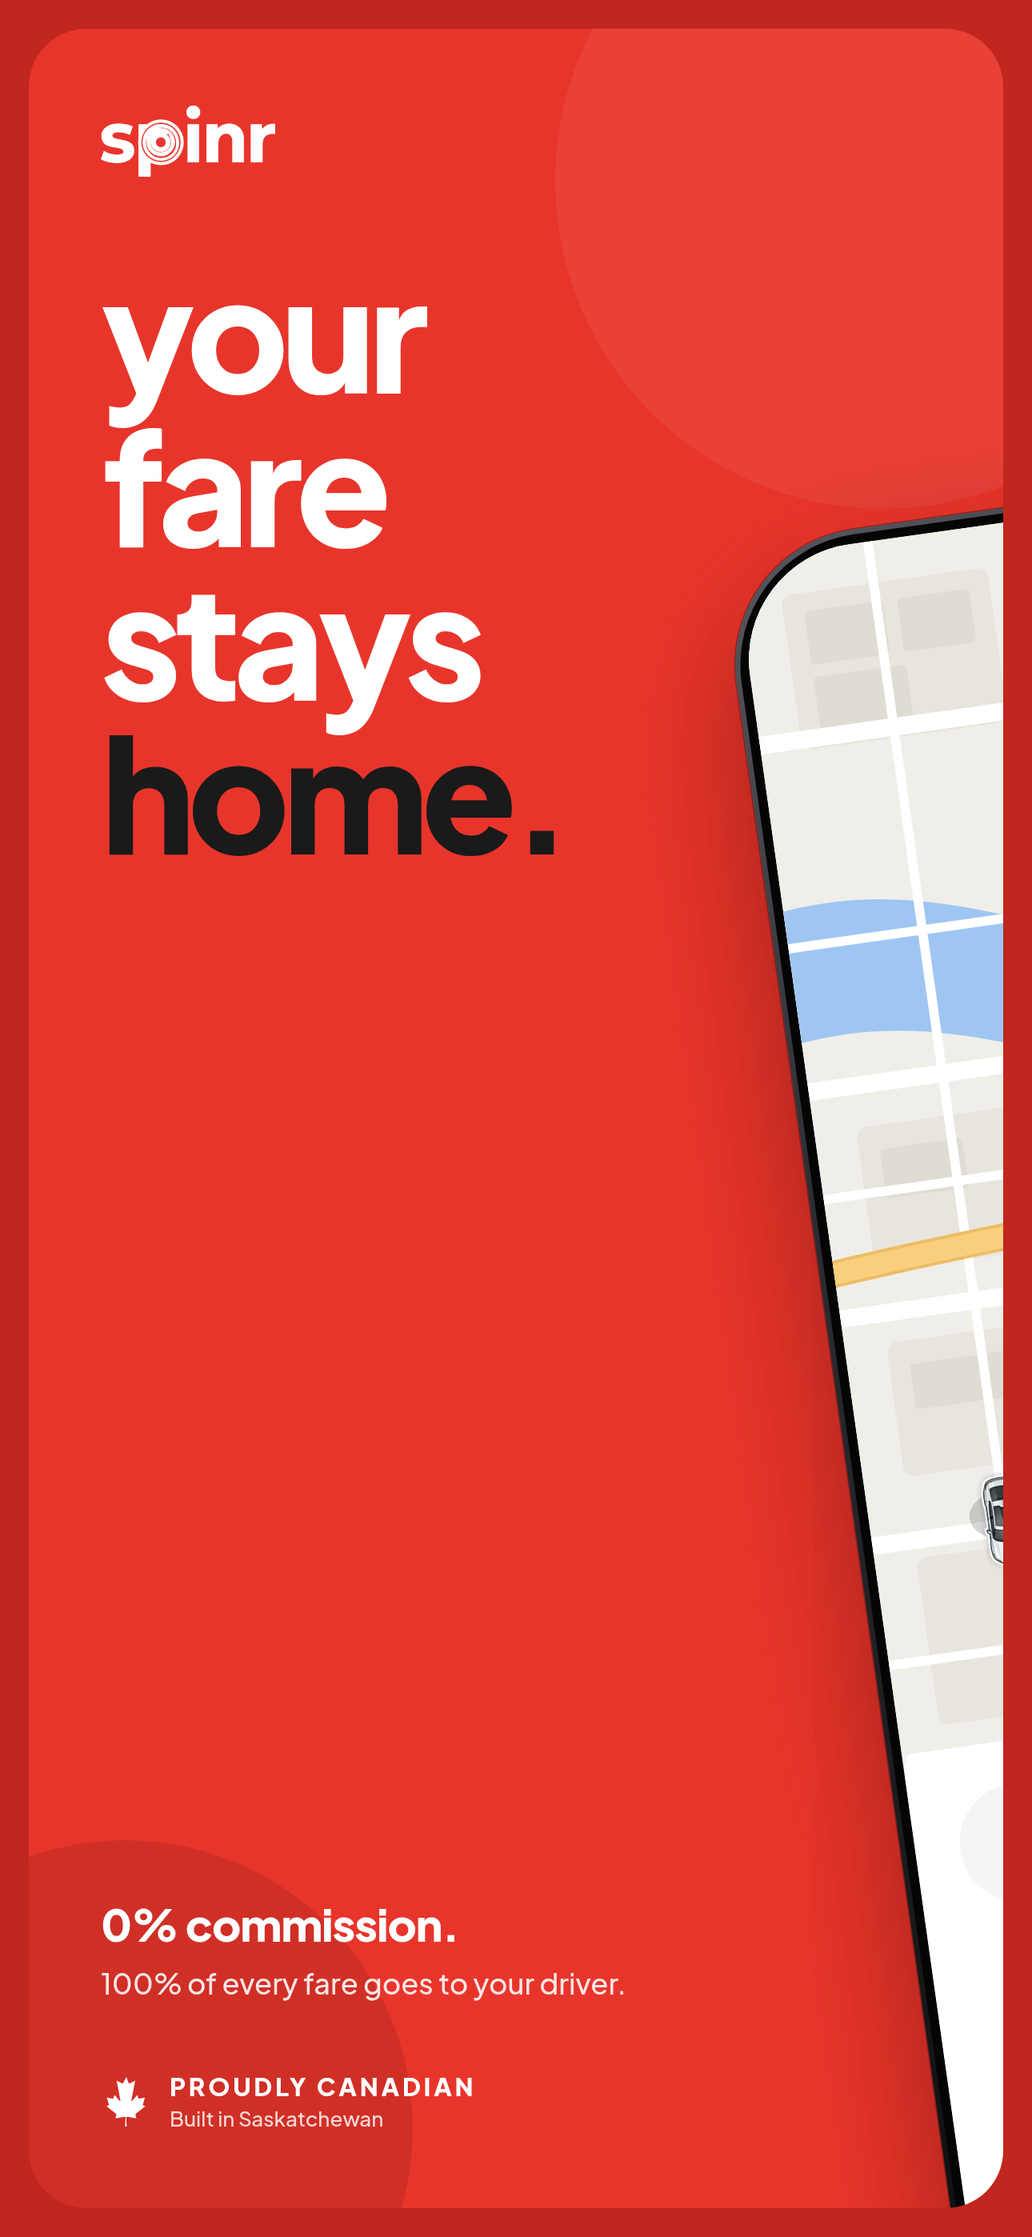
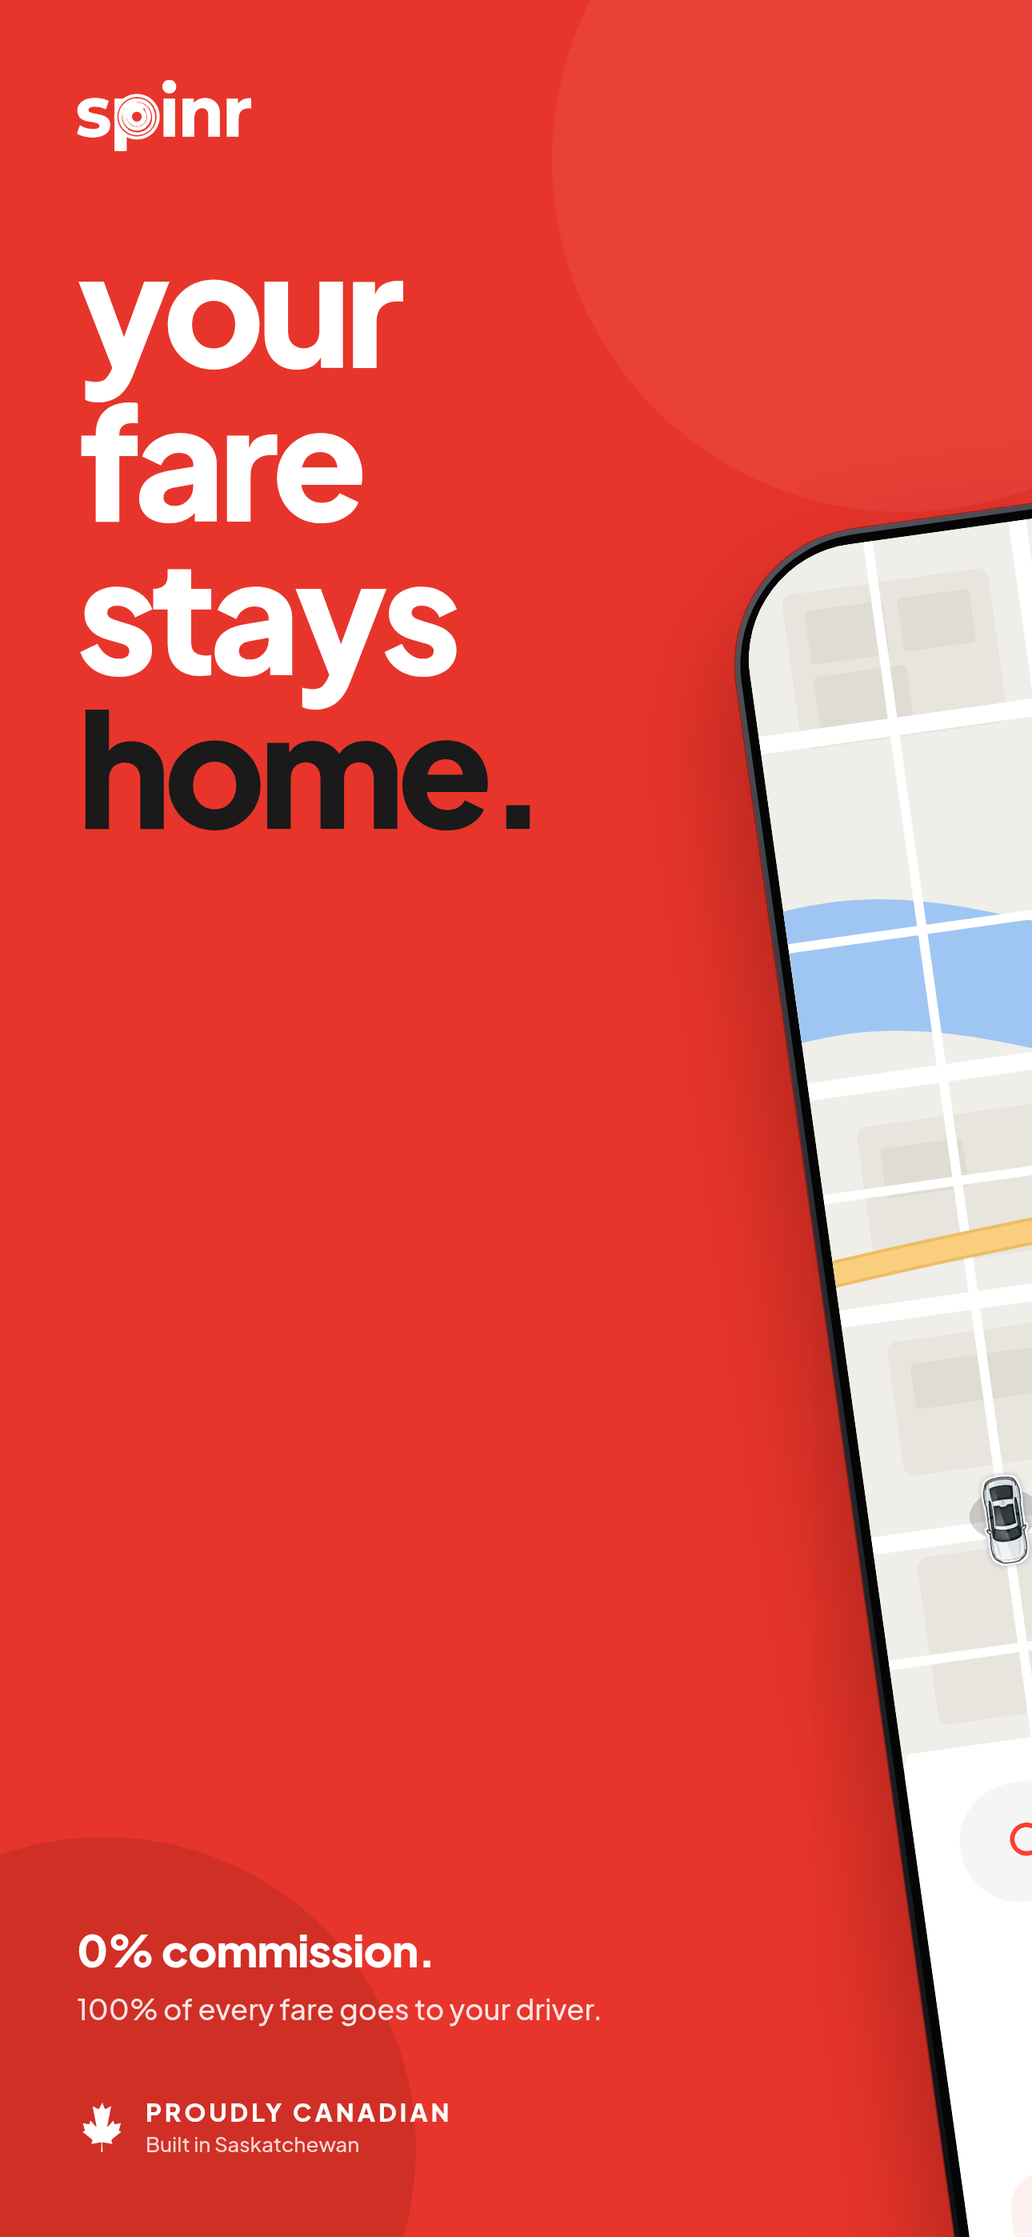
feat(design): v7 — full-bleed opener pair, WELCOME75 with exact math
- Frames 1-2 lose the panel-in-panel treatment: now full-bleed 1290x2796
  like every other frame in the set (no outer border, no inner rounded
  panel), phone positions shifted to keep the identical composition and
  the cross-frame continuity.
- Frame 3 promo is now WELCOME75 (75% off), computed exactly:
  $22.99 -> $5.75, $29.75 -> $7.44 (7.4375 rounded), $31.40 -> $7.85,
  confirm button matches at $5.75. All rows land under $10.

Co-developed with Claude Code (claude-sonnet-5)

Claude-Session: https://claude.ai/code/session_01RAfSoFR6nXebZH6nfqRpkU

Changed region(s): [[0.0, 0.0, 1.0, 1.0], [0.062, 0.1245, 0.5271, 0.4045], [0.062, 0.8401, 0.5891, 0.9024]]

diff --git a/design/app-store-screenshots/Rider02.dc.html b/design/app-store-screenshots/Rider02.dc.html
@@ -68,7 +68,7 @@
             <span style="font-size: 26px; font-weight: 500; color: #6B7280;">3 min &middot; 5 drivers</span>
           </div>
           <div style="display: flex; flex-direction: column; align-items: flex-end;">
-            <div style="display: flex; flex-direction: column; align-items: flex-end; gap: 2px;"><span style="font-size: 26px; font-weight: 500; color: #6B7280; text-decoration: line-through;">$22.99</span><span style="font-size: 37px; font-weight: 800; color: #10B981;">$7.99</span></div>
+            <div style="display: flex; flex-direction: column; align-items: flex-end; gap: 2px;"><span style="font-size: 26px; font-weight: 500; color: #6B7280; text-decoration: line-through;">$22.99</span><span style="font-size: 37px; font-weight: 800; color: #10B981;">$5.75</span></div>
             <svg width="43" height="43" viewBox="0 0 24 24" fill="#1A1A1A" style="margin-top: 6px;"><path d="M12 2a10 10 0 1 0 0 20 10 10 0 0 0 0-20zm-1.2 14.5L6.6 12.3l1.7-1.7 2.5 2.5 5-5 1.7 1.7z"></path></svg>
           </div>
         </div>
@@ -85,7 +85,7 @@
             <span style="font-size: 26px; font-weight: 500; color: #6B7280;">6 min &middot; 2 drivers</span>
           </div>
           <div style="display: flex; flex-direction: column; align-items: flex-end;">
-            <div style="display: flex; flex-direction: column; align-items: flex-end; gap: 2px;"><span style="font-size: 26px; font-weight: 500; color: #6B7280; text-decoration: line-through;">$29.75</span><span style="font-size: 37px; font-weight: 800; color: #10B981;">$14.75</span></div>
+            <div style="display: flex; flex-direction: column; align-items: flex-end; gap: 2px;"><span style="font-size: 26px; font-weight: 500; color: #6B7280; text-decoration: line-through;">$29.75</span><span style="font-size: 37px; font-weight: 800; color: #10B981;">$7.44</span></div>
             
           </div>
         </div>
@@ -102,22 +102,22 @@
             <span style="font-size: 26px; font-weight: 500; color: #6B7280;">8 min &middot; 2 drivers</span>
           </div>
           <div style="display: flex; flex-direction: column; align-items: flex-end;">
-            <div style="display: flex; flex-direction: column; align-items: flex-end; gap: 2px;"><span style="font-size: 26px; font-weight: 500; color: #6B7280; text-decoration: line-through;">$31.40</span><span style="font-size: 37px; font-weight: 800; color: #10B981;">$16.40</span></div>
+            <div style="display: flex; flex-direction: column; align-items: flex-end; gap: 2px;"><span style="font-size: 26px; font-weight: 500; color: #6B7280; text-decoration: line-through;">$31.40</span><span style="font-size: 37px; font-weight: 800; color: #10B981;">$7.85</span></div>
             
           </div>
         </div>
         <div style="display: flex; align-items: center; gap: 24px; padding: 24px 30px; border-radius: 30px; background: #ECFDF5; border: 2px solid #A7F3D0;">
           <svg width="44" height="44" viewBox="0 0 24 24" fill="none" stroke="#059669" stroke-width="2.2" stroke-linecap="round" stroke-linejoin="round"><path d="M20.5 13.5L13 21a2 2 0 0 1-2.8 0l-7-7A2 2 0 0 1 2.6 12.6V5a2 2 0 0 1 2-2h7.6a2 2 0 0 1 1.4.6l6.9 6.9a2 2 0 0 1 0 2.8z"></path><circle cx="8" cy="8" r="1.6"></circle></svg>
           <div style="flex-grow: 1; display: flex; flex-direction: column; gap: 3px;">
-            <span style="font-size: 30px; font-weight: 700; color: #059669;">WELCOME15 applied</span>
-            <span style="font-size: 25px; font-weight: 500; color: #3F7A5B;">$15.00 off your first ride</span>
+            <span style="font-size: 30px; font-weight: 700; color: #059669;">WELCOME75 applied</span>
+            <span style="font-size: 25px; font-weight: 500; color: #3F7A5B;">75% off your first ride</span>
           </div>
           <span style="font-size: 27px; font-weight: 600; color: #DC2626;">Remove</span>
         </div>
       </div>
       <div style="flex-shrink: 0; padding: 26px 43px 46px; background: #F5F5F5;">
         <div style="height: 119px; border-radius: 60px; background: #FF3B30; display: flex; align-items: center; justify-content: center; box-shadow: 0 10px 26px rgba(255,59,48,0.32);">
-          <span style="font-size: 34px; font-weight: 600; color: #FFFFFF;">Confirm Economy &middot; $7.99</span>
+          <span style="font-size: 34px; font-weight: 600; color: #FFFFFF;">Confirm Economy &middot; $5.75</span>
         </div>
       </div>
 

diff --git a/design/app-store-screenshots/_screens/options.html b/design/app-store-screenshots/_screens/options.html
@@ -29,7 +29,7 @@
             <span style="font-size: 26px; font-weight: 500; color: #6B7280;">3 min &middot; 5 drivers</span>
           </div>
           <div style="display: flex; flex-direction: column; align-items: flex-end;">
-            <div style="display: flex; flex-direction: column; align-items: flex-end; gap: 2px;"><span style="font-size: 26px; font-weight: 500; color: #6B7280; text-decoration: line-through;">$22.99</span><span style="font-size: 37px; font-weight: 800; color: #10B981;">$7.99</span></div>
+            <div style="display: flex; flex-direction: column; align-items: flex-end; gap: 2px;"><span style="font-size: 26px; font-weight: 500; color: #6B7280; text-decoration: line-through;">$22.99</span><span style="font-size: 37px; font-weight: 800; color: #10B981;">$5.75</span></div>
             <svg width="43" height="43" viewBox="0 0 24 24" fill="#1A1A1A" style="margin-top: 6px;"><path d="M12 2a10 10 0 1 0 0 20 10 10 0 0 0 0-20zm-1.2 14.5L6.6 12.3l1.7-1.7 2.5 2.5 5-5 1.7 1.7z"></path></svg>
           </div>
         </div>
@@ -46,7 +46,7 @@
             <span style="font-size: 26px; font-weight: 500; color: #6B7280;">6 min &middot; 2 drivers</span>
           </div>
           <div style="display: flex; flex-direction: column; align-items: flex-end;">
-            <div style="display: flex; flex-direction: column; align-items: flex-end; gap: 2px;"><span style="font-size: 26px; font-weight: 500; color: #6B7280; text-decoration: line-through;">$29.75</span><span style="font-size: 37px; font-weight: 800; color: #10B981;">$14.75</span></div>
+            <div style="display: flex; flex-direction: column; align-items: flex-end; gap: 2px;"><span style="font-size: 26px; font-weight: 500; color: #6B7280; text-decoration: line-through;">$29.75</span><span style="font-size: 37px; font-weight: 800; color: #10B981;">$7.44</span></div>
             
           </div>
         </div>
@@ -63,21 +63,21 @@
             <span style="font-size: 26px; font-weight: 500; color: #6B7280;">8 min &middot; 2 drivers</span>
           </div>
           <div style="display: flex; flex-direction: column; align-items: flex-end;">
-            <div style="display: flex; flex-direction: column; align-items: flex-end; gap: 2px;"><span style="font-size: 26px; font-weight: 500; color: #6B7280; text-decoration: line-through;">$31.40</span><span style="font-size: 37px; font-weight: 800; color: #10B981;">$16.40</span></div>
+            <div style="display: flex; flex-direction: column; align-items: flex-end; gap: 2px;"><span style="font-size: 26px; font-weight: 500; color: #6B7280; text-decoration: line-through;">$31.40</span><span style="font-size: 37px; font-weight: 800; color: #10B981;">$7.85</span></div>
             
           </div>
         </div>
         <div style="display: flex; align-items: center; gap: 24px; padding: 24px 30px; border-radius: 30px; background: #ECFDF5; border: 2px solid #A7F3D0;">
           <svg width="44" height="44" viewBox="0 0 24 24" fill="none" stroke="#059669" stroke-width="2.2" stroke-linecap="round" stroke-linejoin="round"><path d="M20.5 13.5L13 21a2 2 0 0 1-2.8 0l-7-7A2 2 0 0 1 2.6 12.6V5a2 2 0 0 1 2-2h7.6a2 2 0 0 1 1.4.6l6.9 6.9a2 2 0 0 1 0 2.8z"></path><circle cx="8" cy="8" r="1.6"></circle></svg>
           <div style="flex-grow: 1; display: flex; flex-direction: column; gap: 3px;">
-            <span style="font-size: 30px; font-weight: 700; color: #059669;">WELCOME15 applied</span>
-            <span style="font-size: 25px; font-weight: 500; color: #3F7A5B;">$15.00 off your first ride</span>
+            <span style="font-size: 30px; font-weight: 700; color: #059669;">WELCOME75 applied</span>
+            <span style="font-size: 25px; font-weight: 500; color: #3F7A5B;">75% off your first ride</span>
           </div>
           <span style="font-size: 27px; font-weight: 600; color: #DC2626;">Remove</span>
         </div>
       </div>
       <div style="flex-shrink: 0; padding: 26px 43px 46px; background: #F5F5F5;">
         <div style="height: 119px; border-radius: 60px; background: #FF3B30; display: flex; align-items: center; justify-content: center; box-shadow: 0 10px 26px rgba(255,59,48,0.32);">
-          <span style="font-size: 34px; font-weight: 600; color: #FFFFFF;">Confirm Economy &middot; $7.99</span>
+          <span style="font-size: 34px; font-weight: 600; color: #FFFFFF;">Confirm Economy &middot; $5.75</span>
         </div>
       </div>

diff --git a/design/app-store-screenshots/Main.dc.html b/design/app-store-screenshots/Main.dc.html
@@ -15,11 +15,10 @@
   </style>
 </helmet>
 
-<div class="sp" style="width: 1290px; height: 2796px; position: relative; overflow: hidden; background: #C0271E; padding: 36px;">
-  <div style="position: relative; width: 1218px; height: 2724px; border-radius: 72px; overflow: hidden; background: #E8352B;">
-    <div style="position: absolute; top: -220px; right: -260px; width: 820px; height: 820px; border-radius: 410px; background: rgba(255,255,255,0.06); z-index: 0;"></div>
-    <div style="position: absolute; bottom: -260px; left: -240px; width: 720px; height: 720px; border-radius: 360px; background: rgba(0,0,0,0.10); z-index: 0;"></div>
-  <div style="position: absolute; left: 1020px; top: 560px; width: 1115px; height: 2366px; transform: rotate(-8deg); z-index: 3;">
+<div class="sp" style="width: 1290px; height: 2796px; position: relative; overflow: hidden; background: #E8352B;">
+  <div style="position: absolute; top: -240px; right: -280px; width: 880px; height: 880px; border-radius: 440px; background: rgba(255,255,255,0.06); z-index: 0;"></div>
+  <div style="position: absolute; bottom: -280px; left: -260px; width: 780px; height: 780px; border-radius: 390px; background: rgba(0,0,0,0.10); z-index: 0;"></div>
+  <div style="position: absolute; left: 1056px; top: 596px; width: 1115px; height: 2366px; transform: rotate(-8deg); z-index: 3;">
     <div style="width: 858px; height: 1820px; transform: scale(1.3); transform-origin: top left;">
       <div style="width: 858px; height: 1820px; border-radius: 132px; padding: 5px; background: linear-gradient(150deg, #55585F 0%, #2B2D33 28%, #101114 70%, #33353B 100%); box-shadow: 0 60px 120px rgba(60,8,4,0.45), 0 0 0 1px rgba(0,0,0,0.35);">
         <div style="width: 848px; height: 1810px; border-radius: 127px; background: #050505; padding: 9px;">
@@ -113,7 +112,7 @@
       </div>
     </div>
   </div>
-  <div style="position: absolute; inset: 0; z-index: 4; padding: 96px 90px; display: flex; flex-direction: column; pointer-events: none;">
+  <div style="position: absolute; inset: 0; z-index: 4; padding: 100px 96px; display: flex; flex-direction: column; pointer-events: none;">
     <img src="spinr-logo-white.png" alt="Spinr" style="width: 218px; height: 89px; object-fit: contain; align-self: flex-start;">
 
     <h1 style="margin: 96px 0 0; font-size: 196px; line-height: 0.98; font-weight: 800; letter-spacing: -0.045em; color: #FFFFFF;">your<br>fare<br>stays<br><span style="color: #1A1A1A;">home.</span></h1>
@@ -130,7 +129,6 @@
         <span style="font-size: 26px; font-weight: 500; color: rgba(255,255,255,0.82);">Built in Saskatchewan</span>
       </div>
     </div>
-  </div>
   </div>
 </div>
 </x-dc>

diff --git a/design/app-store-screenshots/Brand02.dc.html b/design/app-store-screenshots/Brand02.dc.html
@@ -15,11 +15,10 @@
   </style>
 </helmet>
 
-<div class="sp" style="width: 1290px; height: 2796px; position: relative; overflow: hidden; background: #C0271E; padding: 36px;">
-  <div style="position: relative; width: 1218px; height: 2724px; border-radius: 72px; overflow: hidden; background: #E8352B;">
-    <div style="position: absolute; top: -220px; right: -260px; width: 820px; height: 820px; border-radius: 410px; background: rgba(255,255,255,0.06); z-index: 0;"></div>
-    <div style="position: absolute; bottom: -260px; left: -240px; width: 720px; height: 720px; border-radius: 360px; background: rgba(0,0,0,0.10); z-index: 0;"></div>
-  <div style="position: absolute; left: -300px; top: 560px; width: 1115px; height: 2366px; transform: rotate(-8deg); z-index: 3;">
+<div class="sp" style="width: 1290px; height: 2796px; position: relative; overflow: hidden; background: #E8352B;">
+  <div style="position: absolute; top: -240px; right: -280px; width: 880px; height: 880px; border-radius: 440px; background: rgba(255,255,255,0.06); z-index: 0;"></div>
+  <div style="position: absolute; bottom: -280px; left: -260px; width: 780px; height: 780px; border-radius: 390px; background: rgba(0,0,0,0.10); z-index: 0;"></div>
+  <div style="position: absolute; left: -264px; top: 596px; width: 1115px; height: 2366px; transform: rotate(-8deg); z-index: 3;">
     <div style="width: 858px; height: 1820px; transform: scale(1.3); transform-origin: top left;">
       <div style="width: 858px; height: 1820px; border-radius: 132px; padding: 5px; background: linear-gradient(150deg, #55585F 0%, #2B2D33 28%, #101114 70%, #33353B 100%); box-shadow: 0 60px 120px rgba(60,8,4,0.45), 0 0 0 1px rgba(0,0,0,0.35);">
         <div style="width: 848px; height: 1810px; border-radius: 127px; background: #050505; padding: 9px;">
@@ -115,7 +114,6 @@
   </div>
   <div style="position: absolute; right: 90px; top: 96px; z-index: 4;">
     <img src="spinr-logo-white.png" alt="Spinr" style="width: 252px; height: 103px; object-fit: contain;">
-  </div>
   </div>
 </div>
 </x-dc>

diff --git a/design/app-store-screenshots/_build.py b/design/app-store-screenshots/_build.py
@@ -182,12 +182,10 @@ PAIR_SHELL = '''<!doctype html>
   </style>
 </helmet>
 
-<div class="sp" style="width: 1290px; height: 2796px; position: relative; overflow: hidden; background: {outer}; padding: 36px;">
-  <div style="position: relative; width: 1218px; height: 2724px; border-radius: 72px; overflow: hidden; background: {panel};">
-    <div style="position: absolute; top: -220px; right: -260px; width: 820px; height: 820px; border-radius: 410px; background: rgba(255,255,255,0.06); z-index: 0;"></div>
-    <div style="position: absolute; bottom: -260px; left: -240px; width: 720px; height: 720px; border-radius: 360px; background: rgba(0,0,0,0.10); z-index: 0;"></div>
+<div class="sp" style="width: 1290px; height: 2796px; position: relative; overflow: hidden; background: {panel};">
+  <div style="position: absolute; top: -240px; right: -280px; width: 880px; height: 880px; border-radius: 440px; background: rgba(255,255,255,0.06); z-index: 0;"></div>
+  <div style="position: absolute; bottom: -280px; left: -260px; width: 780px; height: 780px; border-radius: 390px; background: rgba(0,0,0,0.10); z-index: 0;"></div>
 {content}
-  </div>
 </div>
 </x-dc>
 </body>
@@ -196,8 +194,8 @@ PAIR_SHELL = '''<!doctype html>
 
 home_screen = open('_screens/home.html').read()
 
-frame1_content = iphone(home_screen, 1020, 560) + '''
-  <div style="position: absolute; inset: 0; z-index: 4; padding: 96px 90px; display: flex; flex-direction: column; pointer-events: none;">
+frame1_content = iphone(home_screen, 1056, 596) + '''
+  <div style="position: absolute; inset: 0; z-index: 4; padding: 100px 96px; display: flex; flex-direction: column; pointer-events: none;">
     <img src="spinr-logo-white.png" alt="Spinr" style="width: 218px; height: 89px; object-fit: contain; align-self: flex-start;">
 
     <h1 style="margin: 96px 0 0; font-size: 196px; line-height: 0.98; font-weight: 800; letter-spacing: -0.045em; color: #FFFFFF;">your<br>fare<br>stays<br><span style="color: #1A1A1A;">home.</span></h1>
@@ -216,13 +214,13 @@ frame1_content = iphone(home_screen, 1020, 560) + '''
     </div>
   </div>'''
 
-frame2_content = iphone(home_screen, -300, 560) + '''
+frame2_content = iphone(home_screen, -264, 596) + '''
   <div style="position: absolute; right: 90px; top: 96px; z-index: 4;">
     <img src="spinr-logo-white.png" alt="Spinr" style="width: 252px; height: 103px; object-fit: contain;">
   </div>'''
 
 for out, content in (('Main.dc.html', frame1_content), ('Brand02.dc.html', frame2_content)):
-    html = PAIR_SHELL.format(outer=OUTER, panel=PANEL, content=content).replace('{LEAF}', LEAF_D)
+    html = PAIR_SHELL.format(panel=PANEL, content=content).replace('{LEAF}', LEAF_D)
     open(out, 'w').write(html)
     d, dc = html.count('<div'), html.count('</div>')
     print(f"{out:16} div {d}/{dc} {'OK' if d == dc else 'MISMATCH'}")

diff --git a/design/app-store-screenshots/_screens.py b/design/app-store-screenshots/_screens.py
@@ -138,9 +138,9 @@ f'''        <div style="display: flex; align-items: center; gap: 22px; padding: 
         </div>''')
 
     rows = '\n'.join([
-        row('sedan', 'Economy', 4, '3 min &middot; 5 drivers', '22.99', '7.99', selected=True),
-        row('van', 'Van', 6, '6 min &middot; 2 drivers', '29.75', '14.75'),
-        row('xl', 'XL', 6, '8 min &middot; 2 drivers', '31.40', '16.40'),
+        row('sedan', 'Economy', 4, '3 min &middot; 5 drivers', '22.99', '5.75', selected=True),
+        row('van', 'Van', 6, '6 min &middot; 2 drivers', '29.75', '7.44'),
+        row('xl', 'XL', 6, '8 min &middot; 2 drivers', '31.40', '7.85'),
     ])
     return (
 f'''      <div style="flex-shrink: 0; display: flex; align-items: center; gap: 26px; padding: 150px 43px 26px; background: #FFFFFF;">
@@ -165,15 +165,15 @@ f'''      <div style="flex-shrink: 0; display: flex; align-items: center; gap: 2
         <div style="display: flex; align-items: center; gap: 24px; padding: 24px 30px; border-radius: 30px; background: #ECFDF5; border: 2px solid #A7F3D0;">
           <svg width="44" height="44" viewBox="0 0 24 24" fill="none" stroke="#059669" stroke-width="2.2" stroke-linecap="round" stroke-linejoin="round"><path d="M20.5 13.5L13 21a2 2 0 0 1-2.8 0l-7-7A2 2 0 0 1 2.6 12.6V5a2 2 0 0 1 2-2h7.6a2 2 0 0 1 1.4.6l6.9 6.9a2 2 0 0 1 0 2.8z"></path><circle cx="8" cy="8" r="1.6"></circle></svg>
           <div style="flex-grow: 1; display: flex; flex-direction: column; gap: 3px;">
-            <span style="font-size: 30px; font-weight: 700; color: #059669;">WELCOME15 applied</span>
-            <span style="font-size: 25px; font-weight: 500; color: #3F7A5B;">$15.00 off your first ride</span>
+            <span style="font-size: 30px; font-weight: 700; color: #059669;">WELCOME75 applied</span>
+            <span style="font-size: 25px; font-weight: 500; color: #3F7A5B;">75% off your first ride</span>
           </div>
           <span style="font-size: 27px; font-weight: 600; color: #DC2626;">Remove</span>
         </div>
       </div>
       <div style="flex-shrink: 0; padding: 26px 43px 46px; background: #F5F5F5;">
         <div style="height: 119px; border-radius: 60px; background: #FF3B30; display: flex; align-items: center; justify-content: center; box-shadow: 0 10px 26px rgba(255,59,48,0.32);">
-          <span style="font-size: 34px; font-weight: 600; color: #FFFFFF;">Confirm Economy &middot; $7.99</span>
+          <span style="font-size: 34px; font-weight: 600; color: #FFFFFF;">Confirm Economy &middot; $5.75</span>
         </div>
       </div>
 ''')
